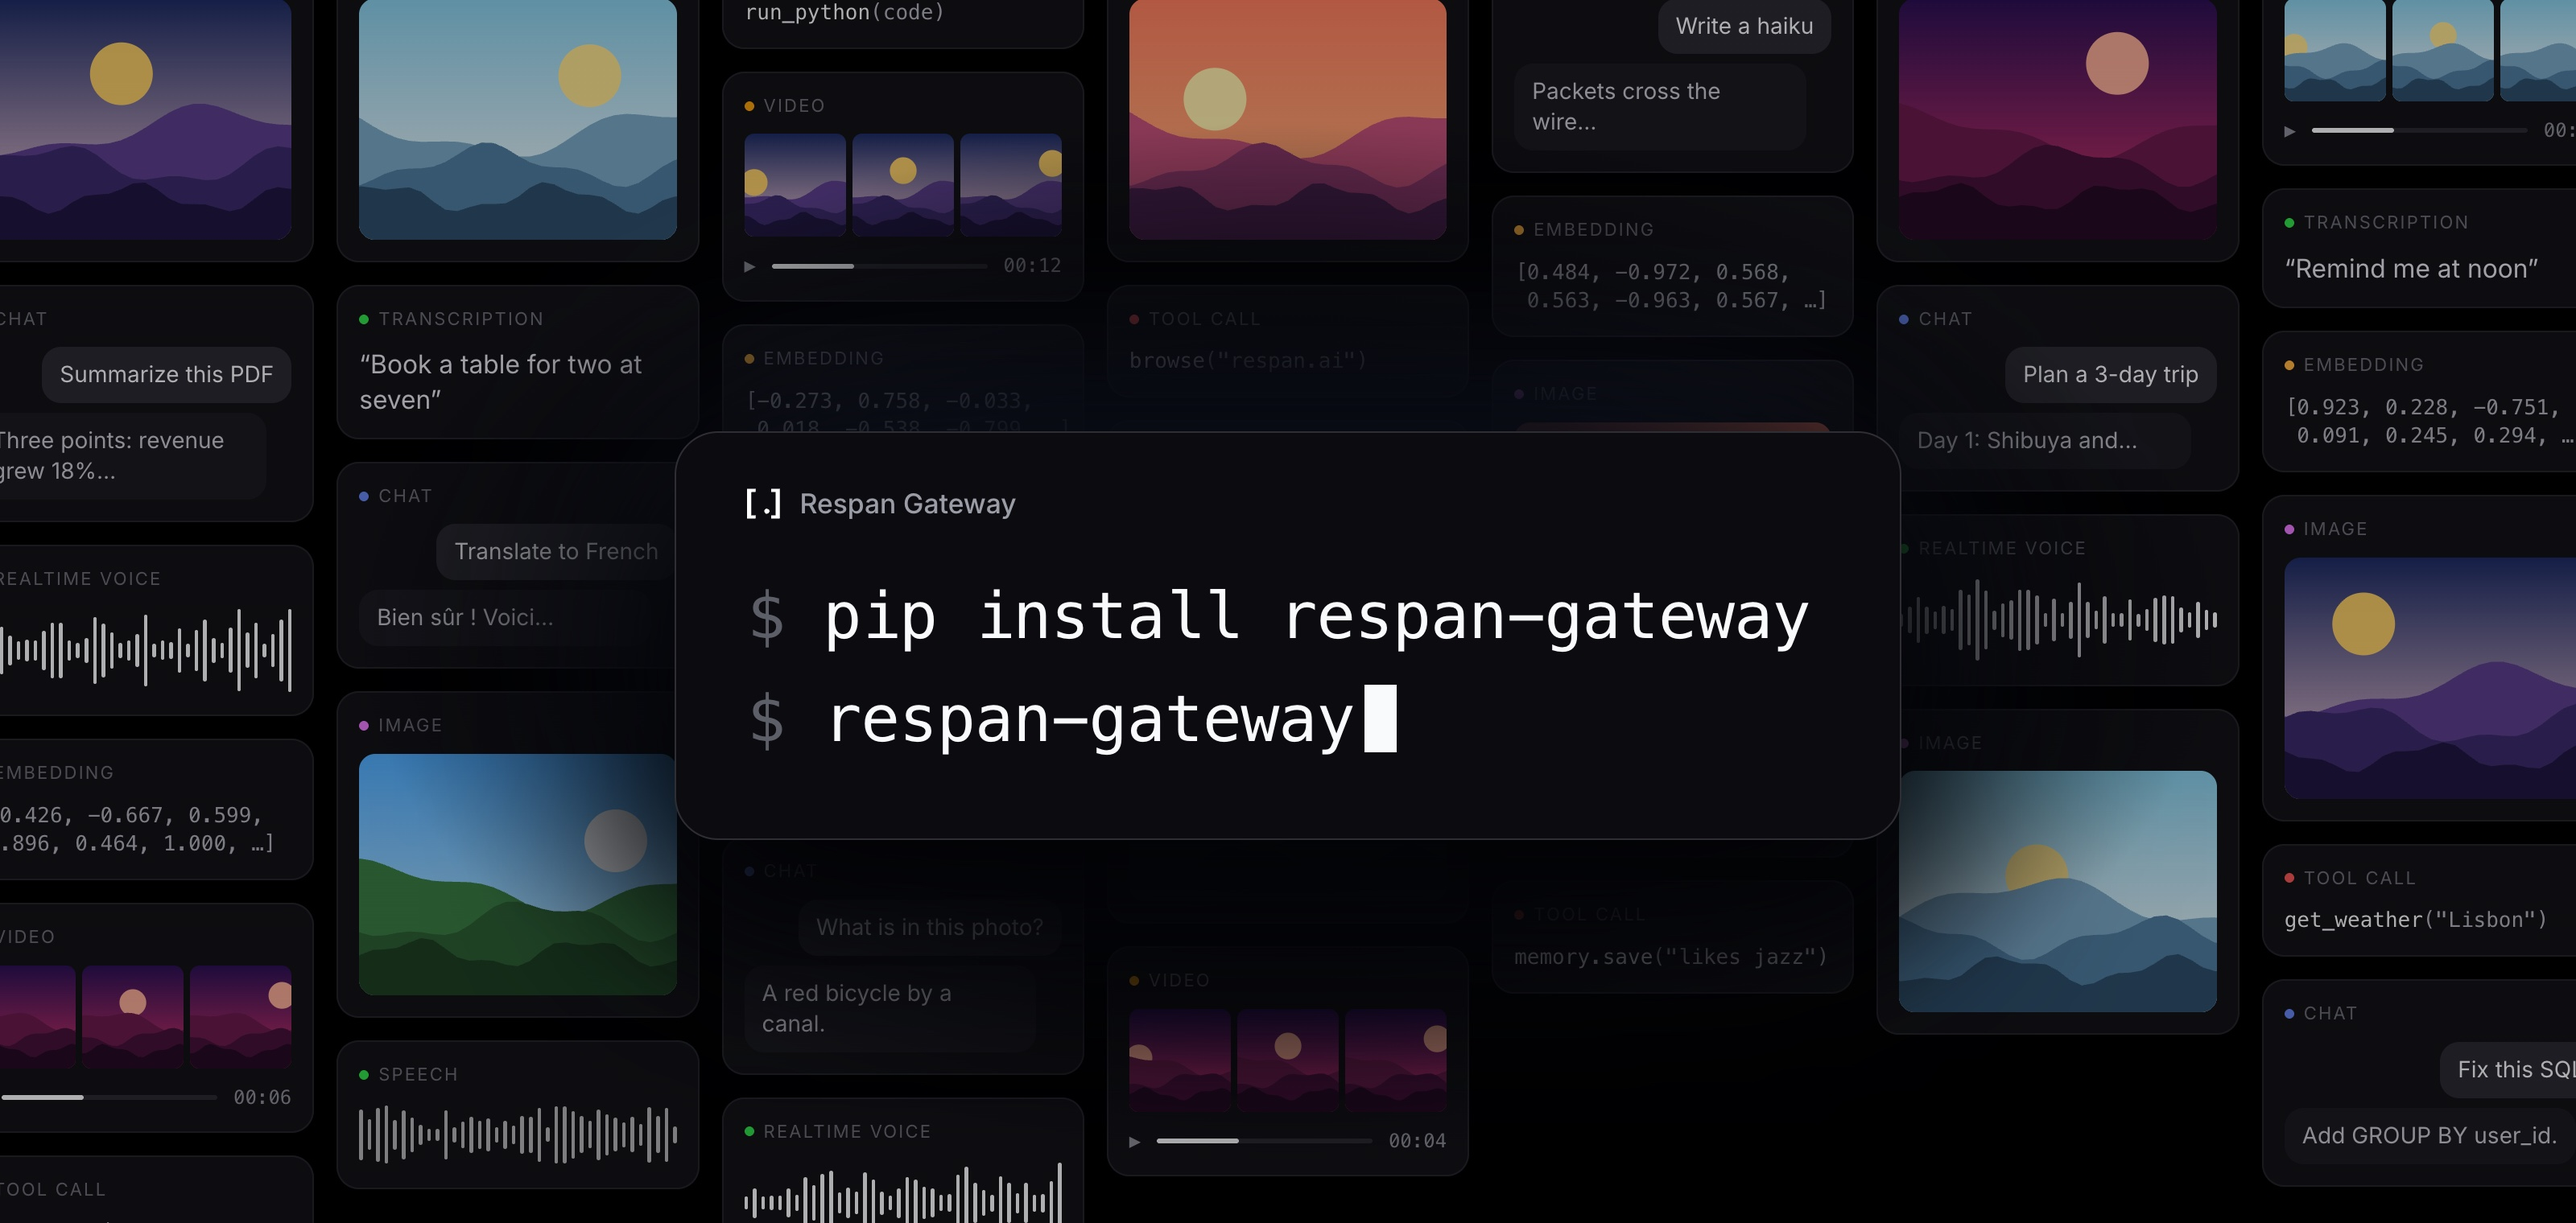
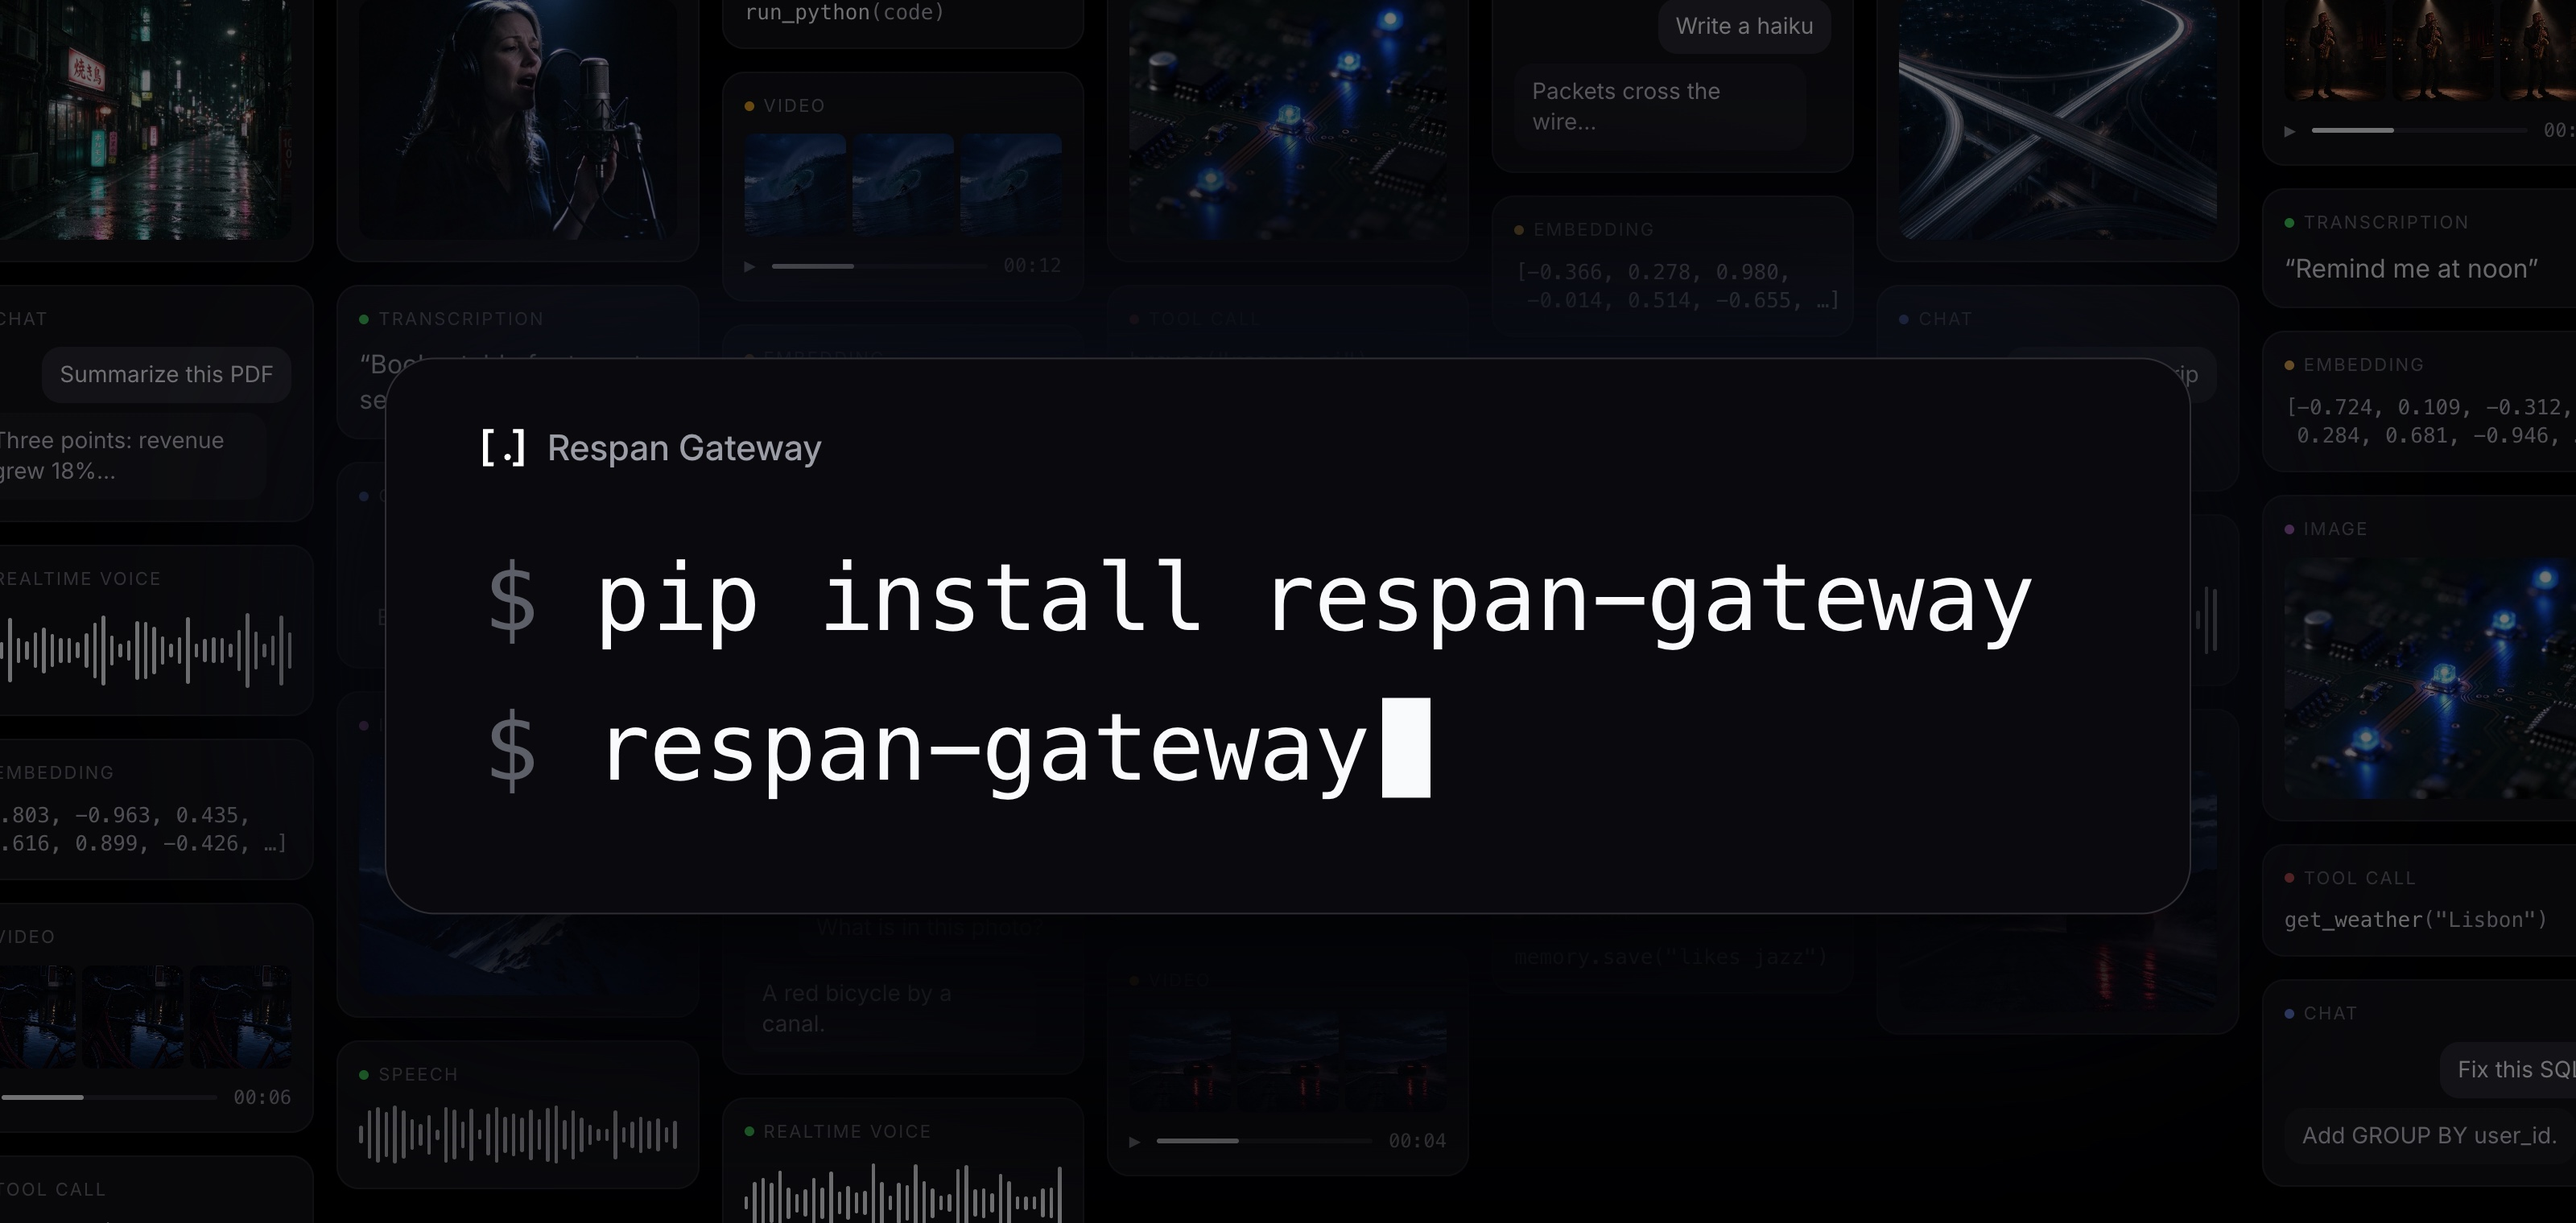
README: real photos behind the hero, darker, bigger commands (draft)

diff --git a/docs/assets/hero-src/hero.html b/docs/assets/hero-src/hero.html
@@ -12,9 +12,9 @@
   .mono { font-family: "JetBrains Mono", ui-monospace, "SF Mono", Menlo, monospace; }
 
   /* the backdrop: a wall of multimodal tiles, fading out toward the commands */
-  .wall { position: absolute; inset: -40px -30px; columns: 7; column-gap: 14px; }
+  .wall { position: absolute; inset: -40px -30px; columns: 7; column-gap: 14px; filter: saturate(.85); }
   .shade { position: absolute; inset: 0;
-    background: radial-gradient(ellipse 36% 42% at 50% 52%, #000 0%, rgba(0,0,0,.9) 50%, rgba(0,0,0,.3) 100%); }
+    background: radial-gradient(ellipse 42% 48% at 50% 52%, #000 0%, rgba(0,0,0,.94) 50%, rgba(0,0,0,.55) 100%); }
   .t { break-inside: avoid; margin-bottom: 14px; border-radius: 14px; background: #121216;
     box-shadow: inset 0 0 0 1px #24242a; padding: 14px; overflow: hidden; }
   .t .lab { font-size: 11px; letter-spacing: .1em; color: #6b6d76; text-transform: uppercase; margin-bottom: 10px; display: flex; gap: 6px; align-items: center; }
@@ -35,14 +35,14 @@
   .quote { font-size: 16px; color: #e6e7ec; }
 
   /* the commands */
-  .card { position: absolute; left: 50%; top: 52%; transform: translate(-50%, -50%); width: 760px;
-    background: #0c0c10; border-radius: 26px; padding: 32px 44px 42px;
+  .card { position: absolute; left: 50%; top: 52%; transform: translate(-50%, -50%); width: 1120px;
+    background: #0a0a0d; border-radius: 30px; padding: 40px 60px 56px;
     box-shadow: 0 0 0 1px #2e2e33, 0 40px 120px 20px #000, 0 0 160px -20px rgba(100,131,240,.3); }
-  .card .hd { display: flex; align-items: center; gap: 12px; color: #9a9ca6; font-size: 17px; font-weight: 500; }
-  .card .hd img { height: 24px; }
-  .card pre { margin-top: 26px; font-size: 40px; line-height: 1.6; letter-spacing: -.5px; }
+  .card .hd { display: flex; align-items: center; gap: 14px; color: #9a9ca6; font-size: 22px; font-weight: 500; }
+  .card .hd img { height: 30px; }
+  .card pre { margin-top: 32px; font-size: 58px; line-height: 1.6; letter-spacing: -.5px; }
   .card pre .s { color: #5d5f68; }
-  .cur { display: inline-block; width: 20px; height: 42px; background: #f9fafc; vertical-align: -7px; margin-left: 6px; }
+  .cur { display: inline-block; width: 30px; height: 62px; background: #f9fafc; vertical-align: -11px; margin-left: 8px; }
 </style>
 </head>
 <body>
@@ -74,12 +74,16 @@
       <rect width="300" height="200" fill="url(#${id})"/><circle cx="${sun[0]}" cy="${sun[1]}" r="26" fill="${p[2]}" opacity=".95"/>
       <path d="${ridge(110, 18, .02, ph)}" fill="${p[3]}"/><path d="${ridge(138, 14, .03, ph + 2)}" fill="${p[4]}"/><path d="${ridge(165, 10, .045, ph + 4)}" fill="${p[5]}"/></svg>`; };
   const pick = () => PAL[Math.floor(rnd() * PAL.length)];
-  const art = () => scene(pick(), [60 + rnd() * 180, 50 + rnd() * 40], rnd() * 6);
+  // photos generated through gateway.respan.ai (seedream-5.0-flash)
+  const PHOTOS = ['t1', 't3', 't5', 't6', 't2', 't7', 't9', 't10', 't8', 't4'];
+  let pi = 0; const photo = () => { const n = PHOTOS.length, i = pi++ % (2 * n); return PHOTOS[i < n ? i : 2 * n - 1 - i]; };
+  const art = () => `<img src="img/${photo()}.jpg" style="width:100%;height:100%;object-fit:cover;display:block">`;
   const dot = c => `<b style="background:${c}"></b>`;
   const T = {
     chat: (q, a) => `<div class="t"><div class="lab">${dot('#6483f0')}chat</div><div class="bub u">${q}</div><div class="bub a">${a}</div></div>`,
     image: () => `<div class="t"><div class="lab">${dot('#e879f9')}image</div><div class="art">${art()}</div></div>`,
-    video: t => { const p = pick(), ph = rnd() * 6; return `<div class="t"><div class="lab">${dot('#f59e0b')}video</div><div class="frames"><div>${scene(p, [70, 95], ph)}</div><div>${scene(p, [150, 72], ph)}</div><div>${scene(p, [230, 58], ph)}</div></div><div class="vbar mono">▶<i></i>${t}</div></div>`; },
+    video: t => { const f = photo(), fr = x => `<div><img src="img/${f}.jpg" style="width:100%;height:100%;object-fit:cover;object-position:${x}% 50%;display:block"></div>`;
+      return `<div class="t"><div class="lab">${dot('#f59e0b')}video</div><div class="frames">${fr(0)}${fr(50)}${fr(100)}</div><div class="vbar mono">▶<i></i>${t}</div></div>`; },
     voice: () => { let s = ''; for (let i = 0; i < 38; i++) s += `<span style="height:${8 + Math.abs(Math.sin(i * .55)) * rnd() * 46}px"></span>`;
       return `<div class="t"><div class="lab">${dot('#31de4b')}realtime voice</div><div class="wave">${s}</div></div>`; },
     transcript: q => `<div class="t"><div class="lab">${dot('#31de4b')}transcription</div><div class="quote">“${q}”</div></div>`,
